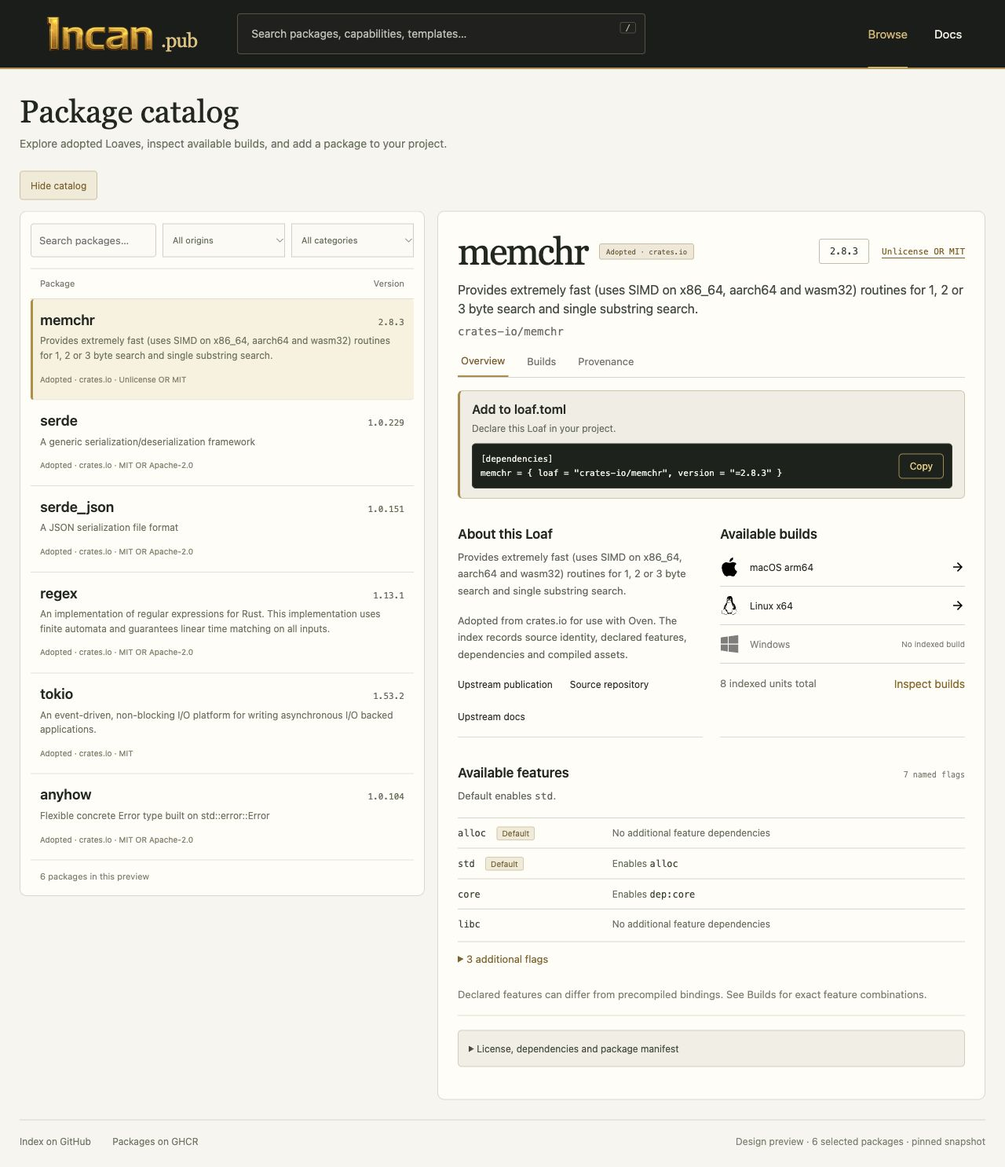
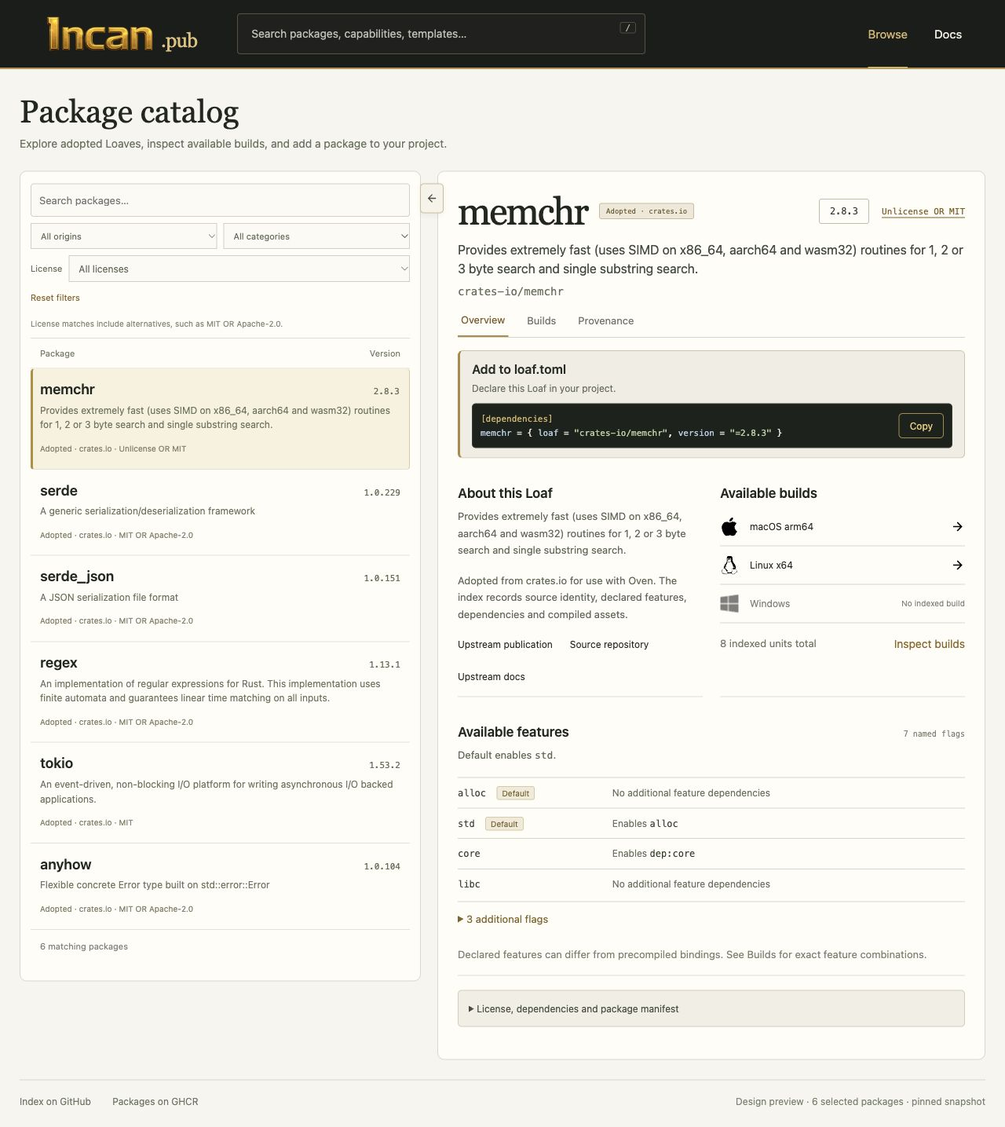
design: add license filters and refine catalog controls

diff --git a/index.html b/index.html
@@ -34,6 +34,10 @@ body{background:var(--paper);color:var(--ink)}.topbar{background:#1a1d1b;color:#
 @media(max-width:1100px){.reader-preview .overview-grid{grid-template-columns:1fr}}@media(max-width:900px){.reader-preview{display:block;margin-top:16px;padding:19px}.reader-shell:not(.catalog-collapsed) .reader-preview{display:none}.reader-preview .identity h1{font-size:40px}.catalog-collapsed .reader-preview .overview-grid{grid-template-columns:1fr}.main{padding:20px 18px 0}.reader-intro h1{font-size:30px}.reader-preview .command{flex-direction:column;align-items:flex-start}.reader-preview .release-meta{flex-wrap:wrap}.reader-preview .feature-row{grid-template-columns:1fr}.reader-list{padding:12px}}
 
 .reader-intro{padding-right:48px}.main{position:relative}.catalog-toggle{position:absolute;right:25px;top:32px;display:flex;align-items:center;justify-content:center;width:34px;height:34px;padding:8px;margin:0;background:transparent;border:1px solid #d5cebb;border-radius:5px}.catalog-toggle img{width:16px;height:16px;transform:rotate(180deg);opacity:.7}.catalog-toggle.is-collapsed img{transform:none}.catalog-toggle:hover{background:#eee7d7;border-color:#bda56e}@media(max-width:900px){.catalog-toggle{right:18px;top:24px}}
+
+.reader-shell{position:relative}.reader-list{margin-right:5px}.catalog-toggle{position:absolute;z-index:3;left:calc(42.5% - 13px);right:auto;top:16px;width:30px;height:38px;background:#f7f4e9;border-color:#cdbd99;box-shadow:0 2px 5px #30281012}.reader-shell.catalog-collapsed{padding-left:26px}.catalog-collapsed .catalog-toggle{left:0}.reader-intro{padding-right:0}.reader-tools input{flex-basis:100%}.license-filter{display:flex;align-items:center;gap:8px;font-size:11px;color:#666f5c;flex-basis:100%}.license-filter select{font-size:12px}.reset-filters{font-size:11px;color:#866328;background:transparent;border:0;padding:3px 0;cursor:pointer}.filter-hint{font-size:10px;line-height:1.5;color:#7e826f;margin:0 0 10px}.reader-pagination{display:flex;gap:10px;align-items:center;font-size:11px;margin:10px}.reader-pagination button{font-size:11px;padding:5px 9px;background:#faf6e9;border:1px solid #d8cbb0}.toml-section{color:#d7b665}.toml-key{color:#b1cbe1}.toml-string{color:#b7cc9e}.toml-comment{color:#98a18b}.toml-value{color:#dccba4}.reader-row.selected{border-right:1px solid #dbcaa0}
+@media(max-width:900px){.catalog-toggle{left:-8px;right:auto;top:16px}.reader-tools{padding-left:18px;padding-right:0}.reader-shell.catalog-collapsed{padding-left:0;padding-top:0}.catalog-collapsed .catalog-toggle{left:-8px;right:auto;top:16px}.catalog-collapsed .reader-preview{padding-left:28px}.reader-list{margin-right:0}.reader-preview{margin-top:0}}
+@media(min-width:901px){#reader-rows{max-height:60vh;overflow:auto;scrollbar-width:thin}}
 </style>
 </head>
 <style>.catalog-intro{margin:10px 0 25px}.catalog-intro h1{font:52px/1.15 var(--serif);margin:0 0 12px}.catalog-intro p{color:#65705c;font-size:17px;max-width:60ch}.catalog-tools{display:flex;align-items:center;gap:14px;flex-wrap:wrap;border-bottom:1px solid var(--line);padding-bottom:20px;margin-bottom:24px}.catalog-tools input{flex:1;min-width:200px;padding:12px 15px;background:#fffdf8;border:1px solid #cfc7b4;border-radius:4px}.catalog-tools select{max-width:100%;padding:11px;background:#fffdf8;color:#4a563f;border:1px solid #cfc7b4;border-radius:4px}.catalog-grid{display:grid;grid-template-columns:repeat(2,minmax(0,1fr));gap:18px}.package-card{display:block;padding:24px;background:#fffdf8;border:1px solid #d8d2c2;border-radius:5px}.package-card:hover{border-color:#aa8542;text-decoration:none;background:#fbf7ed}.card-top{display:flex;justify-content:space-between;gap:14px;align-items:baseline}.card-top h2{font:30px var(--serif);margin:0}.card-top code{font-size:12px;color:#78816c}.package-card p{font-size:15px;line-height:1.65;color:#626d57;margin:10px 0 18px}.card-meta{display:flex;flex-wrap:wrap;gap:8px 17px;font-size:12px;color:#827453}.catalog-note{font-size:12px;color:#7b826f;margin:22px 0}.feature-row{grid-template-columns:minmax(170px,28%) minmax(0,1fr)}.feature-row span{overflow-wrap:anywhere}.surface code{overflow-wrap:anywhere}.package-heading .identity{min-width:0}.identity h1{overflow-wrap:anywhere}.build-controls{display:flex;flex-wrap:wrap;gap:16px;margin:18px 0}.build-controls label{font-size:12px}.build-controls select{display:block;margin-top:5px;max-width:100%}.unit-details{margin-top:14px}.unit-details summary{cursor:pointer;color:#886524;font-size:13px}.unit-details pre{white-space:pre-wrap;overflow-wrap:anywhere;font-size:12px}.source-links{display:flex;gap:22px;flex-wrap:wrap;font-size:13px;margin-top:18px}.feature-section{padding-top:21px}.release-meta{flex-shrink:0}.license{max-width:230px}.feature-heading>span{white-space:normal}@media(max-width:700px){.catalog-grid{grid-template-columns:1fr}.catalog-intro h1{font-size:39px}.identity h1{font-size:43px}.package-heading{flex-wrap:wrap}.release-meta{flex-direction:row;align-items:center}.feature-row{grid-template-columns:1fr}.catalog-tools input{min-width:0;flex-basis:100%}.card-top h2{font-size:27px}}
@@ -50,24 +54,29 @@ const packages=[{"name": "memchr", "version": "2.8.3", "category": "Text & parsi
 const esc=s=>String(s??'').replace(/[&<>"']/g,c=>({'&':'&amp;','<':'&lt;','>':'&gt;','"':'&quot;',"'":'&#39;'}[c]));
 const url=(p,path)=>'https://github.com/encero-systems/incan.pub/blob/'+p.pin+'/'+path;
 const link=(href,label)=>`<a href="${esc(href)}" target="_blank" rel="noopener">${esc(label)}</a>`;
+function toml(source){return source.split('\n').map(line=>{
+  if(/^\s*\[\[?[^\]]+\]\]?\s*$/.test(line))return '<span class="toml-section">'+esc(line)+'</span>';
+  const tokens=line.match(/"(?:[^"\\]|\\.)*"|'[^']*'|#[^\n]*|[A-Za-z_][\w.-]*(?=\s*=)|\b(?:true|false|\d+(?:\.\d+)?)\b|[\s\S]/g)||[];
+  return tokens.map(t=>{const kind=t.startsWith('#')?'comment':/^["']/.test(t)?'string':/^(?:true|false|\d+(?:\.\d+)?)$/.test(t)?'value':/^[A-Za-z_][\w.-]*$/.test(t)&&t.length>1?'key':'';return kind?'<span class="toml-'+kind+'">'+esc(t)+'</span>':esc(t)}).join('')
+}).join('\n')}
 const dependency=p=>`[dependencies]\n${p.name} = { loaf = "crates-io/${p.name}", version = "=${p.version}" }`.replace('\\n','\n');
 function footer(){return `<footer class="footer"><div>${link('https://github.com/encero-systems/incan.pub/tree/'+packages[0].pin,'Index on GitHub')} ${link('https://github.com/orgs/encero-systems/packages?repo_name=incan.pub','Packages on GHCR')}</div><span class="preview-note">Design preview · 6 selected packages · pinned snapshot</span></footer>`}
 function browse(){current=null;document.title='Browse · incan.pub — design preview';app.innerHTML=`<div class="catalog-intro"><div class="breadcrumb">INCAN.PUB / PACKAGE CATALOG</div><h1>Find your next building block.</h1><p>Explore adopted Loaves, inspect available builds, and add a package to your project.</p></div><div class="catalog-tools"><input id="catalog-search" aria-label="Filter packages" placeholder="Search this catalog…"><select id="origin" aria-label="Package origin"><option>All origins</option><option>Adopted from crates.io</option><option>Incan native</option></select><select id="category" aria-label="Package category"><option>All categories</option>${[...new Set(packages.map(p=>p.category))].map(c=>`<option>${esc(c)}</option>`).join('')}</select></div><div id="catalog-grid" class="catalog-grid"></div><p class="catalog-note">A curated six-package preview from the real Git index. Package storage is on organisation-level GitHub Packages.</p>${footer()}`;drawCards();document.getElementById('catalog-search').addEventListener('input',drawCards);document.getElementById('category').addEventListener('change',drawCards);document.getElementById('origin').addEventListener('change',drawCards)}
-function drawCards(){let q=document.getElementById('catalog-search').value.toLowerCase(),c=document.getElementById('category').value;let selected=packages.filter(p=>document.getElementById('origin').value!=='Incan native'&&(c==='All categories'||p.category===c)&&[p.name,p.about.description,p.category].join(' ').toLowerCase().includes(q));document.getElementById('catalog-grid').innerHTML=selected.length?selected.map(p=>`<a class="package-card" href="#package/${p.name}"><span class="origin-badge">Adopted · crates.io</span><div class="card-top"><h2>${esc(p.name)}</h2><code>${esc(p.version)}</code></div><p>${esc(p.about.description)}</p><div class="card-meta"><span>${esc(p.category)}</span><span>${esc(p.about.license||'License not recorded')}</span><span>${p.assets.length} indexed unit${p.assets.length===1?'':'s'}</span></div></a>`).join(''):'<p role="status">No matching packages in this preview. Native publications are not present in the selected index snapshot.</p>'}
+function drawCards(){let q=document.getElementById('catalog-search').value.toLowerCase(),c=document.getElementById('category').value;let selected=packages.filter(p=>document.getElementById('origin').value!=='Incan native'&&(c==='All categories'||p.category===c)&&(catalogState.license==='All licenses'||(p.about.license||'').split(/\s+(?:OR|AND|WITH)\s+|[()]/).map(x=>x.trim()).includes(catalogState.license))&&[p.name,p.about.description,p.category].join(' ').toLowerCase().includes(q));document.getElementById('catalog-grid').innerHTML=selected.length?selected.map(p=>`<a class="package-card" href="#package/${p.name}"><span class="origin-badge">Adopted · crates.io</span><div class="card-top"><h2>${esc(p.name)}</h2><code>${esc(p.version)}</code></div><p>${esc(p.about.description)}</p><div class="card-meta"><span>${esc(p.category)}</span><span>${esc(p.about.license||'License not recorded')}</span><span>${p.assets.length} indexed unit${p.assets.length===1?'':'s'}</span></div></a>`).join(''):'<p role="status">No matching packages in this preview. Native publications are not present in the selected index snapshot.</p>'}
 function featureSection(p){const f=p.features,names=Object.keys(f).filter(n=>n!=='default'),defaults=new Set(f.default||[]);function expand(n){for(const x of f[n]||[])if(f[x]&&!defaults.has(x)){defaults.add(x);expand(x)}};[...defaults].forEach(expand);const row=n=>`<div class="feature-row"><div><code>${esc(n)}</code>${defaults.has(n)?' <span class="feature-default">Default</span>':''}</div><span>${f[n].length?'Enables '+f[n].map(x=>`<code>${esc(x)}</code>`).join(', '):'No additional feature dependencies'}</span></div>`;const sorted=names.sort((a,b)=>Number(defaults.has(b))-Number(defaults.has(a))||a.localeCompare(b));return `<section class="surface feature-section"><div class="feature-heading"><h2>Available features</h2><span>${names.length} named flags</span></div><p>${(f.default||[]).length?'Default enables '+f.default.map(x=>`<code>${esc(x)}</code>`).join(', ')+'.':'No features enabled by default.'}</p>${sorted.slice(0,4).map(row).join('')}${sorted.length>4?`<details class="additional-features"><summary>${sorted.length-4} additional flags</summary>${sorted.slice(4).map(row).join('')}</details>`:''}<p class="feature-note">Declared features can differ from precompiled bindings. See Builds for exact feature combinations.</p></section>`}
 function platforms(p){return [['apple','macOS arm64','aarch64-apple-darwin'],['linux','Linux x64','x86_64-unknown-linux-gnu'],['windows','Windows',null]].map(([icon,label,target])=>{const available=target?p.assets.some(a=>a.binding.target===target):p.assets.some(a=>a.binding.target.includes('windows'));return available?`<a class="build-row" href="#" data-platform="${target}"><span class="platform-label"><img class="platform-icon" src="assets/platform-${icon}.svg" alt="">${label}</span><img src="assets/arrow-right.svg" alt=""></a>`:`<div class="build-row unavailable"><span class="platform-label"><img class="platform-icon" src="assets/platform-${icon}.svg" alt="">${label}</span><small>No indexed build</small></div>`}).join('')}
-function packagePage(p){current=p;view='overview';document.title=p.name+' · incan.pub — design preview';app.innerHTML=`<div class="breadcrumb"><a href="#browse">Browse</a><span>/</span>crates-io<span>/</span>${esc(p.name)}</div><div class="package-heading"><div class="identity"><h1>${esc(p.name)}</h1><span class="type">Adopted · crates.io</span></div><div class="release-meta"><span class="release-select">${esc(p.version)}</span><a class="license" href="#" id="license-link">${esc(p.about.license||'License not recorded')}</a></div></div><p class="description">${esc(p.about.description)}</p><div class="byline"><span class="publisher">crates-io/${esc(p.name)}</span></div><div class="page-tabs" role="tablist" aria-label="Package sections">${['overview','builds','provenance'].map(v=>`<button class="page-tab" role="tab" id="nav-${v}" aria-controls="view-${v}" aria-selected="${v==='overview'}" tabindex="${v==='overview'?0:-1}" data-view="${v}">${v[0].toUpperCase()+v.slice(1)}</button>`).join('')}</div><div id="view-overview" class="tab-panel" role="tabpanel" aria-labelledby="nav-overview"><section class="install"><h2 class="section-label">Add to loaf.toml</h2><p class="install-note">Declare this Loaf in your project.</p><div class="command"><code id="command">${esc(dependency(p))}</code><button class="copy" id="copy-dependency">Copy</button></div></section><div class="overview-grid"><section class="surface"><h2>About this Loaf</h2><p>${esc(p.about.description)}</p><p>Adopted from crates.io for use with Oven. The index records source identity, declared features, dependencies and compiled assets.</p><div class="source-links">${link('https://crates.io/crates/'+p.name+'/'+p.version,'Upstream publication')}${p.about.repository?link(p.about.repository,'Source repository'):''}${p.about.documentation?link(p.about.documentation,'Upstream docs'):''}</div></section><section class="surface"><h2>Available builds</h2>${platforms(p)}<div class="build-bottom"><span>${p.assets.length} indexed unit${p.assets.length===1?'':'s'} total</span><button data-view="builds">Inspect builds</button></div></section></div>${featureSection(p)}</div><div id="view-builds" class="tab-panel" role="tabpanel" aria-labelledby="nav-builds" hidden></div><div id="view-provenance" class="tab-panel" role="tabpanel" aria-labelledby="nav-provenance" hidden><section class="surface"><h2>Publication provenance</h2><p>The Git index records package identity; GitHub Packages holds the bytes.</p><table class="details-table"><tr><th>License</th><td>${esc(p.about.license)}</td></tr><tr><th>Source Loaf digest</th><td><code>${esc(p.archive)}</code></td></tr><tr><th>Upstream checksum</th><td><code>${esc(p.checksum)}</code></td></tr><tr><th>Index snapshot</th><td><code>${esc(p.pin)}</code></td></tr></table><div class="source-links">${link(url(p,'events/'+p.event),'Adoption event')}${link(url(p,'crates-io/'+p.name+'/'+p.version+'/assets.json'),'Asset manifest')}</div></section></div><details class="disclosure" id="registry-details"><summary>License, dependencies and package manifest</summary><div><section class="detail-section"><h2>License</h2><p>${esc(p.about.license)}</p>${link(url(p,'events/'+p.event),'View recorded license metadata')}</section><section class="detail-section"><h2>Declared dependencies</h2>${Object.keys(p.deps).length?Object.entries(p.deps).map(([name,d])=>`<div class="feature-row"><code>${esc(name)}</code><span>${packages.some(x=>'crates-io/'+x.name===d.loaf)?`<a href="#package/${esc(d.loaf.split('/')[1])}">${esc(d.loaf)}</a>`:esc(d.loaf)} · ${esc(d.version)}${d.optional?' · optional':''}</span></div>`).join(''):'<p>No dependencies declared in this manifest.</p>'}</section><section class="detail-section"><h2>Package manifest</h2><div class="code-panel"><pre>${esc(p.manifest)}</pre></div></section></div></details>${footer()}`;drawBuilds(p);wire(p)}
+function packagePage(p){current=p;view='overview';document.title=p.name+' · incan.pub — design preview';app.innerHTML=`<div class="breadcrumb"><a href="#browse">Browse</a><span>/</span>crates-io<span>/</span>${esc(p.name)}</div><div class="package-heading"><div class="identity"><h1>${esc(p.name)}</h1><span class="type">Adopted · crates.io</span></div><div class="release-meta"><span class="release-select">${esc(p.version)}</span><a class="license" href="#" id="license-link">${esc(p.about.license||'License not recorded')}</a></div></div><p class="description">${esc(p.about.description)}</p><div class="byline"><span class="publisher">crates-io/${esc(p.name)}</span></div><div class="page-tabs" role="tablist" aria-label="Package sections">${['overview','builds','provenance'].map(v=>`<button class="page-tab" role="tab" id="nav-${v}" aria-controls="view-${v}" aria-selected="${v==='overview'}" tabindex="${v==='overview'?0:-1}" data-view="${v}">${v[0].toUpperCase()+v.slice(1)}</button>`).join('')}</div><div id="view-overview" class="tab-panel" role="tabpanel" aria-labelledby="nav-overview"><section class="install"><h2 class="section-label">Add to loaf.toml</h2><p class="install-note">Declare this Loaf in your project.</p><div class="command"><code id="command">${toml(dependency(p))}</code><button class="copy" id="copy-dependency">Copy</button></div></section><div class="overview-grid"><section class="surface"><h2>About this Loaf</h2><p>${esc(p.about.description)}</p><p>Adopted from crates.io for use with Oven. The index records source identity, declared features, dependencies and compiled assets.</p><div class="source-links">${link('https://crates.io/crates/'+p.name+'/'+p.version,'Upstream publication')}${p.about.repository?link(p.about.repository,'Source repository'):''}${p.about.documentation?link(p.about.documentation,'Upstream docs'):''}</div></section><section class="surface"><h2>Available builds</h2>${platforms(p)}<div class="build-bottom"><span>${p.assets.length} indexed unit${p.assets.length===1?'':'s'} total</span><button data-view="builds">Inspect builds</button></div></section></div>${featureSection(p)}</div><div id="view-builds" class="tab-panel" role="tabpanel" aria-labelledby="nav-builds" hidden></div><div id="view-provenance" class="tab-panel" role="tabpanel" aria-labelledby="nav-provenance" hidden><section class="surface"><h2>Publication provenance</h2><p>The Git index records package identity; GitHub Packages holds the bytes.</p><table class="details-table"><tr><th>License</th><td>${esc(p.about.license)}</td></tr><tr><th>Source Loaf digest</th><td><code>${esc(p.archive)}</code></td></tr><tr><th>Upstream checksum</th><td><code>${esc(p.checksum)}</code></td></tr><tr><th>Index snapshot</th><td><code>${esc(p.pin)}</code></td></tr></table><div class="source-links">${link(url(p,'events/'+p.event),'Adoption event')}${link(url(p,'crates-io/'+p.name+'/'+p.version+'/assets.json'),'Asset manifest')}</div></section></div><details class="disclosure" id="registry-details"><summary>License, dependencies and package manifest</summary><div><section class="detail-section"><h2>License</h2><p>${esc(p.about.license)}</p>${link(url(p,'events/'+p.event),'View recorded license metadata')}</section><section class="detail-section"><h2>Declared dependencies</h2>${Object.keys(p.deps).length?Object.entries(p.deps).map(([name,d])=>`<div class="feature-row"><code>${esc(name)}</code><span>${packages.some(x=>'crates-io/'+x.name===d.loaf)?`<a href="#package/${esc(d.loaf.split('/')[1])}">${esc(d.loaf)}</a>`:esc(d.loaf)} · ${esc(d.version)}${d.optional?' · optional':''}</span></div>`).join(''):'<p>No dependencies declared in this manifest.</p>'}</section><section class="detail-section"><h2>Package manifest</h2><div class="code-panel"><pre>${toml(p.manifest)}</pre></div></section></div></details>${footer()}`;drawBuilds(p);wire(p)}
 function showView(v){view=v;document.querySelectorAll('.page-tab').forEach(b=>{b.setAttribute('aria-selected',String(b.dataset.view===v));b.tabIndex=b.dataset.view===v?0:-1});document.querySelectorAll('.tab-panel').forEach(x=>x.hidden=x.id!=='view-'+v)}
 function drawBuilds(p){const container=document.getElementById('view-builds');if(!p.assets.length){container.innerHTML='<section class="surface"><h2>Compiled assets</h2><p>No compiled assets recorded in this snapshot.</p></section>';return}const targets=[...new Set(p.assets.map(a=>a.binding.target))];container.innerHTML=`<section class="surface"><h2>Compiled assets</h2><p>Inspect an exact indexed binding, including its features and profile.</p><div class="build-controls"><label>Target<select id="target" class="release-select">${targets.map(t=>`<option>${esc(t)}</option>`).join('')}</select></label><label>Binding<select id="binding" class="release-select"></select></label></div><div id="unit-summary"></div></section>`;const t=document.getElementById('target'),b=document.getElementById('binding');function summary(){const a=p.assets[Number(b.value)];document.getElementById('unit-summary').innerHTML=`<p><strong>${esc(a.binding.profile)}</strong> · ${esc(a.binding.features.join(', ')||'No features')}</p><p class="evidence-note">${esc(a.binding.toolchain)}</p>${a.attestation?link(a.attestation,'View recorded attestation'):''}<details class="unit-details"><summary>Unit identity and registry location</summary><pre>${esc(a.unit_identity)}\n${esc(a.archive)}\n${esc(a.location.registry+'/'+a.location.repository+':'+a.location.tag)}</pre></details>`}function options(){b.innerHTML=p.assets.map((a,i)=>({a,i})).filter(x=>x.a.binding.target===t.value).map(({a,i})=>`<option value="${i}">${esc(a.binding.profile)} · ${esc(a.binding.features.join(', ')||'no features')}</option>`).join('');summary()}t.addEventListener('change',options);b.addEventListener('change',summary);options();container.updateOptions=options}
 function wire(p){document.querySelectorAll('[data-view]').forEach(b=>b.addEventListener('click',()=>showView(b.dataset.view)));document.querySelectorAll('[data-platform]').forEach(a=>a.addEventListener('click',e=>{e.preventDefault();showView('builds');document.getElementById('target').value=a.dataset.platform;document.getElementById('view-builds').updateOptions()}));document.getElementById('license-link').addEventListener('click',e=>{e.preventDefault();const d=document.getElementById('registry-details');d.open=true;d.scrollIntoView({behavior:'smooth'})});document.getElementById('copy-dependency').addEventListener('click',async e=>{try{await navigator.clipboard.writeText(dependency(p));e.target.textContent='Copied';setTimeout(()=>e.target.textContent='Copy',1800)}catch{e.target.textContent='Select text to copy'}});document.querySelectorAll('.page-tab').forEach((b,i)=>b.addEventListener('keydown',e=>{if(['ArrowLeft','ArrowRight','Home','End'].includes(e.key)){e.preventDefault();const tabs=[...document.querySelectorAll('.page-tab')];const n=e.key==='Home'?0:e.key==='End'?2:(i+(e.key==='ArrowRight'?1:2))%3;showView(tabs[n].dataset.view);tabs[n].focus()}}))}
 
-let catalogState={q:'',origin:'All origins',category:'All categories'};let catalogCollapsed=false;
+let catalogState={q:'',origin:'All origins',category:'All categories',license:'All licenses',page:0};let catalogCollapsed=false;
 function browse(){renderReader(null)}
-function listRows(selected){const filtered=packages.filter(p=>catalogState.origin!=='Incan native'&&(catalogState.category==='All categories'||p.category===catalogState.category)&&[p.name,p.about.description,p.category].join(' ').toLowerCase().includes(catalogState.q.toLowerCase()));document.getElementById('reader-rows').innerHTML=filtered.length?filtered.map(p=>`<a class="reader-row ${selected===p.name?'selected':''}" href="#package/${p.name}" ${selected===p.name?'aria-current="true"':''}><div class="reader-row-top"><strong>${esc(p.name)}</strong><code>${esc(p.version)}</code></div><p>${esc(p.about.description)}</p><span class="row-origin">Adopted · crates.io · ${esc(p.about.license)}</span></a>`).join(''):'<div class="reader-empty">No matching packages in this preview. Native publications are not present in the selected snapshot.</div>';document.getElementById('reader-count').textContent=`${filtered.length} packages in this preview`}
-function renderReader(p){const selected=p||packages[0];packagePage(selected);const content=document.createElement('div');while(app.firstChild)content.append(app.firstChild);app.innerHTML=`<header class="reader-intro"><h1>Package catalog</h1><p>Explore adopted Loaves, inspect available builds, and add a package to your project.</p></header><button class="catalog-toggle" id="catalog-toggle" aria-controls="catalog-panel" aria-expanded="true" aria-label="Hide catalog" title="Hide catalog"><img src="assets/arrow-right.svg" alt=""></button><div class="reader-shell"><section id="catalog-panel" class="reader-list" aria-label="Package catalog"><div class="reader-tools"><input id="reader-search" aria-label="Filter packages" placeholder="Search packages…" value="${esc(catalogState.q)}"><select id="reader-origin" aria-label="Package origin">${['All origins','Adopted from crates.io','Incan native'].map(o=>`<option ${catalogState.origin===o?'selected':''}>${o}</option>`).join('')}</select><select id="reader-category" aria-label="Package category">${['All categories',...new Set(packages.map(p=>p.category))].map(o=>`<option ${catalogState.category===o?'selected':''}>${esc(o)}</option>`).join('')}</select></div><div class="reader-columns"><span>Package</span><span>Version</span></div><div id="reader-rows"></div><div id="reader-count" class="reader-count" role="status"></div></section><section class="reader-preview" aria-label="Selected package preview" id="reader-preview"></section></div>${footer()}`;document.getElementById('reader-preview').append(content);document.getElementById('catalog-toggle').addEventListener('click',()=>{catalogCollapsed=!catalogCollapsed;applyCollapse()});applyCollapse();listRows(selected.name);document.getElementById('reader-search').addEventListener('input',e=>{catalogState.q=e.target.value;listRows(selected.name)});document.getElementById('reader-origin').addEventListener('change',e=>{catalogState.origin=e.target.value;listRows(selected.name)});document.getElementById('reader-category').addEventListener('change',e=>{catalogState.category=e.target.value;listRows(selected.name)});document.title='Catalog · incan.pub — design preview'}
+function listRows(selected){const filtered=packages.filter(p=>catalogState.origin!=='Incan native'&&(catalogState.category==='All categories'||p.category===catalogState.category)&&(catalogState.license==='All licenses'||(p.about.license||'').split(/\s+(?:OR|AND|WITH)\s+|[()]/).map(x=>x.trim()).includes(catalogState.license))&&[p.name,p.about.description,p.category].join(' ').toLowerCase().includes(catalogState.q.toLowerCase()));document.getElementById('reader-rows').innerHTML=filtered.length?filtered.slice(catalogState.page*50,catalogState.page*50+50).map(p=>`<a class="reader-row ${selected===p.name?'selected':''}" href="#package/${p.name}" ${selected===p.name?'aria-current="true"':''}><div class="reader-row-top"><strong>${esc(p.name)}</strong><code>${esc(p.version)}</code></div><p>${esc(p.about.description)}</p><span class="row-origin">Adopted · crates.io · ${esc(p.about.license)}</span></a>`).join(''):'<div class="reader-empty">No matching packages in this preview. Native publications are not present in the selected snapshot.</div>';document.getElementById('reader-rows').scrollTop=0;document.getElementById('reader-count').textContent=`${filtered.length} matching packages`;document.getElementById('reader-pagination').innerHTML=filtered.length>50?`<button id="page-prev" ${catalogState.page===0?'disabled':''}>Previous</button><span>Page ${catalogState.page+1} of ${Math.ceil(filtered.length/50)}</span><button id="page-next" ${(catalogState.page+1)*50>=filtered.length?'disabled':''}>Next</button>`:'';document.getElementById('page-prev')?.addEventListener('click',()=>{catalogState.page--;listRows(selected)});document.getElementById('page-next')?.addEventListener('click',()=>{catalogState.page++;listRows(selected)})}
+function renderReader(p){const selected=p||packages[0];packagePage(selected);const content=document.createElement('div');while(app.firstChild)content.append(app.firstChild);app.innerHTML=`<header class="reader-intro"><h1>Package catalog</h1><p>Explore adopted Loaves, inspect available builds, and add a package to your project.</p></header><div class="reader-shell"><button class="catalog-toggle" id="catalog-toggle" aria-controls="catalog-panel" aria-expanded="true" aria-label="Hide catalog" title="Hide catalog"><img src="assets/arrow-right.svg" alt=""></button><section id="catalog-panel" class="reader-list" aria-label="Package catalog"><div class="reader-tools"><input id="reader-search" aria-label="Filter packages" placeholder="Search packages…" value="${esc(catalogState.q)}"><select id="reader-origin" aria-label="Package origin">${['All origins','Adopted from crates.io','Incan native'].map(o=>`<option ${catalogState.origin===o?'selected':''}>${o}</option>`).join('')}</select><select id="reader-category" aria-label="Package category">${['All categories',...new Set(packages.map(p=>p.category))].map(o=>`<option ${catalogState.category===o?'selected':''}>${esc(o)}</option>`).join('')}</select><label class="license-filter">License<select id="reader-license" aria-label="Package license">${['All licenses',...new Set(packages.flatMap(p=>(p.about.license||'').split(/\s+(?:OR|AND|WITH)\s+|[()]/).map(x=>x.trim()).filter(Boolean)))].map(o=>`<option ${catalogState.license===o?'selected':''}>${esc(o)}</option>`).join('')}</select></label><button class="reset-filters" id="reset-filters">Reset filters</button></div><p class="filter-hint">License matches include alternatives, such as MIT OR Apache-2.0.</p><div class="reader-columns"><span>Package</span><span>Version</span></div><div id="reader-rows"></div><div id="reader-count" class="reader-count" role="status"></div><div id="reader-pagination" class="reader-pagination"></div></section><section class="reader-preview" aria-label="Selected package preview" id="reader-preview"></section></div>${footer()}`;document.getElementById('reader-preview').append(content);document.getElementById('catalog-toggle').addEventListener('click',()=>{catalogCollapsed=!catalogCollapsed;applyCollapse()});applyCollapse();listRows(selected.name);document.getElementById('reader-search').addEventListener('input',e=>{catalogState.q=e.target.value;catalogState.page=0;listRows(selected.name)});document.getElementById('reader-origin').addEventListener('change',e=>{catalogState.origin=e.target.value;catalogState.page=0;listRows(selected.name)});document.getElementById('reader-category').addEventListener('change',e=>{catalogState.category=e.target.value;catalogState.page=0;listRows(selected.name)});document.getElementById('reader-license').addEventListener('change',e=>{catalogState.license=e.target.value;catalogState.page=0;listRows(selected.name)});document.getElementById('reset-filters').addEventListener('click',()=>{catalogState={q:'',origin:'All origins',category:'All categories',license:'All licenses',page:0};renderReader(selected)});document.title='Catalog · incan.pub — design preview'}
 function applyCollapse(){const panel=document.getElementById('catalog-panel'),shell=document.querySelector('.reader-shell'),button=document.getElementById('catalog-toggle');panel.hidden=catalogCollapsed;shell.classList.toggle('catalog-collapsed',catalogCollapsed);button.setAttribute('aria-expanded',String(!catalogCollapsed));button.setAttribute('aria-label',catalogCollapsed?'Show catalog':'Hide catalog');button.title=catalogCollapsed?'Show catalog':'Hide catalog';button.classList.toggle('is-collapsed',catalogCollapsed)}
 function route(){const name=location.hash.startsWith('#package/')?location.hash.slice(9):null;const p=packages.find(p=>p.name===name);if(innerWidth<=900)catalogCollapsed=Boolean(p);renderReader(p);window.scrollTo(0,0)}
 
 function oldRoute(){const name=location.hash.startsWith('#package/')?location.hash.slice(9):null;const p=packages.find(p=>p.name===name);p?packagePage(p):browse();window.scrollTo(0,0)}window.addEventListener('hashchange',route);route();
-const search=document.getElementById('search'),results=document.getElementById('results');search.addEventListener('input',()=>{let q=search.value.trim().toLowerCase();results.hidden=!q;results.innerHTML=q?(packages.filter(p=>[p.name,p.about.description].join(' ').toLowerCase().includes(q)).map(p=>`<a href="#package/${p.name}">${esc(p.name)} · ${esc(p.version)}</a>`).join('')||'No matching packages in this preview.'):''});results.addEventListener('click',()=>{results.hidden=true;search.value=''});search.addEventListener('keydown',e=>{if(e.key==='Escape')results.hidden=true;if(e.key==='Enter'){const a=results.querySelector('a');if(a)a.click()}});document.addEventListener('keydown',e=>{if(e.key==='/'&&!['INPUT','TEXTAREA','SELECT'].includes(document.activeElement.tagName)){e.preventDefault();search.focus()}});
+const search=document.getElementById('search'),results=document.getElementById('results');search.addEventListener('input',()=>{let q=search.value.trim().toLowerCase();results.hidden=!q;results.innerHTML=q?(packages.filter(p=>[p.name,p.about.description].join(' ').toLowerCase().includes(q)).slice(0,8).map(p=>`<a href="#package/${p.name}">${esc(p.name)} · ${esc(p.version)}</a>`).join('')||'No matching packages in this preview.'):''});results.addEventListener('click',()=>{results.hidden=true;search.value=''});search.addEventListener('keydown',e=>{if(e.key==='Escape')results.hidden=true;if(e.key==='Enter'){const a=results.querySelector('a');if(a)a.click()}});document.addEventListener('keydown',e=>{if(e.key==='/'&&!['INPUT','TEXTAREA','SELECT'].includes(document.activeElement.tagName)){e.preventDefault();search.focus()}});
 </script></body></html>

diff --git a/design-qa.md b/design-qa.md
@@ -2,6 +2,12 @@
 
 final result: passed
 
-Selected target: catalog option 4, with user-approved collapsible catalog and compact mobile list. Official Incan wordmark followed by .pub. Six real adopted packages retain indexed licenses, features, dependencies and build bindings.
-Browser checked expanded/collapsed catalog states and mobile selection into serde_json. At 390px viewport, document width is 390px. Selected package remains in the same context reader. No separate full package link. Filters retained in session state.
-Desktop screenshot: preview.png. Intentional refinement: collapsible catalog instead of separate full package navigation; tabbed deep build/provenance inspection retained.
+Target: previously approved context reader (`preview.png` before this revision), with requested license filtering, a toggle attached to the catalog boundary, and TOML highlighting. The earlier source has a text toggle; the new edge control and expanded filter group are intentional changes.
+
+Comparison evidence: `/private/tmp/reader-comparison.png` places the source and rendered revision together at 1280px width. Captures show the same memchr overview, light theme and expanded catalog. Full-page heights differ because the standalone toggle row was removed. Composition, wordmark, license, platform icons and feature hierarchy remain intact. The filter and dependency-code regions were also inspected at viewport scale. No P0/P1/P2 desktop differences remain beyond the requested changes.
+
+Mobile refinement: initial collapsed-state capture left the control detached above the package. Fixed by attaching it to the left panel edge and reserving heading space. Revised 390px capture (`preview-mobile.png`) shows the control alongside the heading without overlap. DOM check reports 390px document width at a 390px viewport. Expanded mobile filter controls were visually inspected too.
+
+Functional checks: Apache-2.0 returns four dual-license packages; Unlicense returns memchr; reset restores all six. Collapse/show works. TOML source round-trips for all six embedded manifests and dependency snippets, including empty arrays, escaped HTML characters and array tables. Copy retains original plain source.
+
+Scale check: synthetic 10,000-record Node exercise verifies 50 rendered rows, next-page transitions and disabled next on the final page. Search suggestions are capped at eight. This is not an end-to-end mobile benchmark. Full manifests and assets are still embedded in the six-package prototype; production should fetch details on selection and build a compact metadata index from the Git-backed source. SPDX expressions should be parsed properly for production; the preview only token-matches its current simple license expressions.
